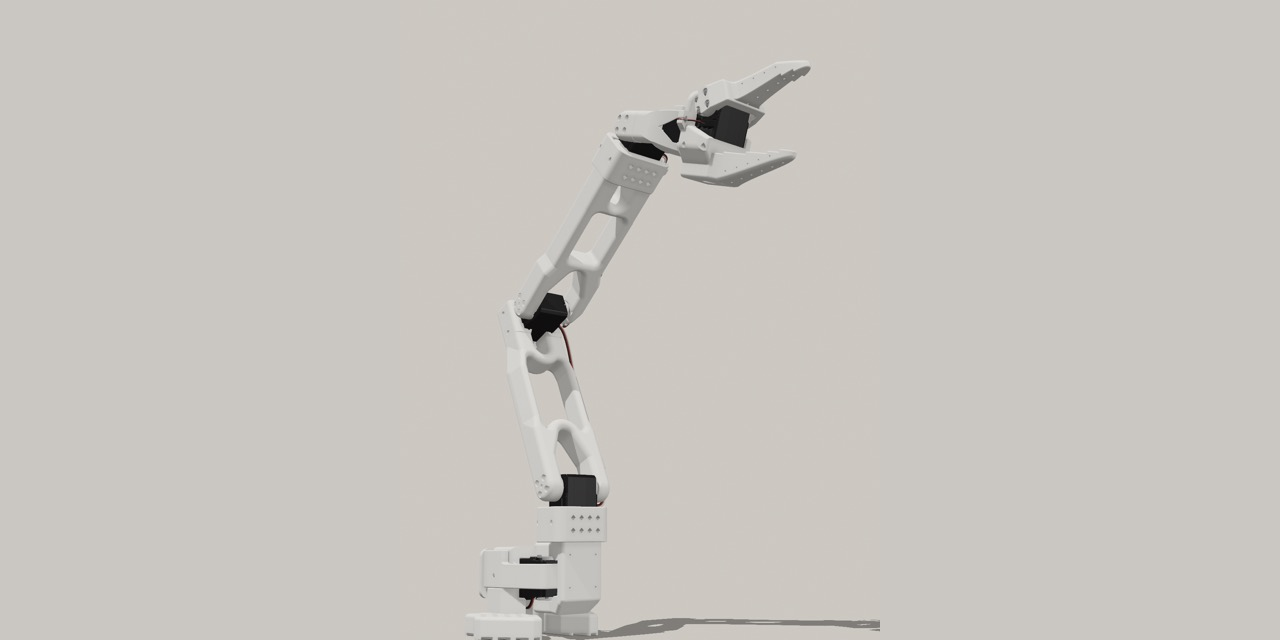
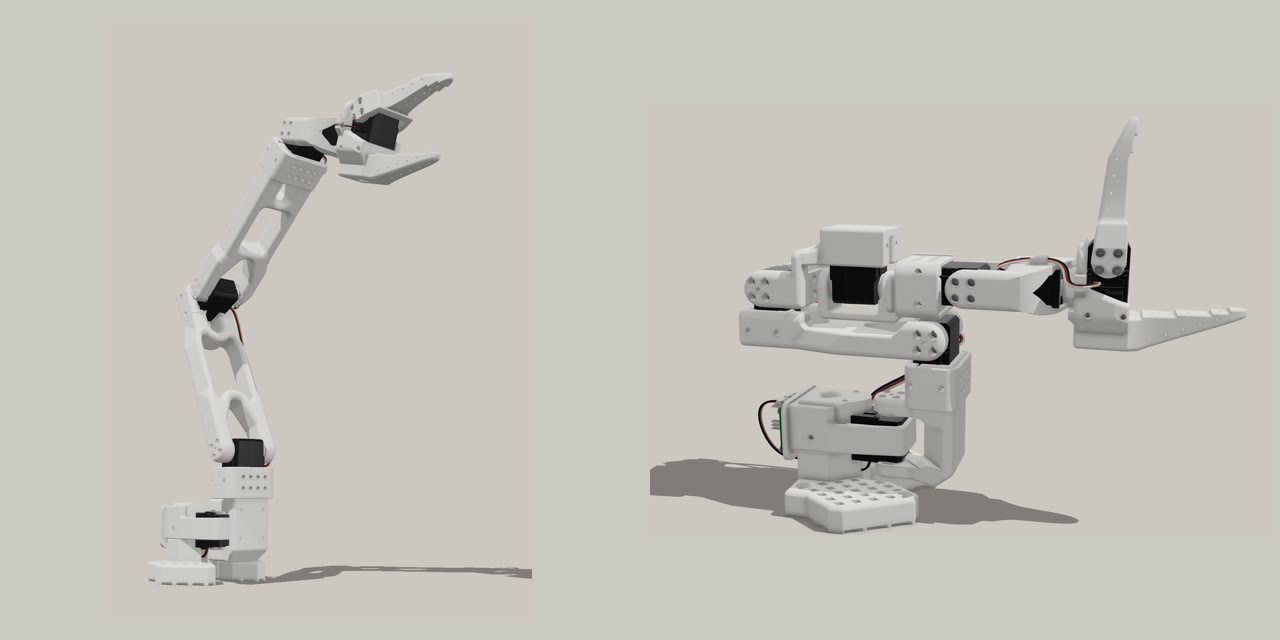
Show both SO-101 variants and clarify motor requirements

diff --git a/README.md b/README.md
@@ -133,11 +133,11 @@ For wrist cameras, haptic sensors, and other modules, see [SO-ARM100 Accessories
 
 ### [rabhishek100/SO-101 Extended & 6-DoF Variants](https://github.com/rabhishek100/so101-6dof-and-extended-versions)
 
-Two printable SO-101 variants: longer upper-arm and forearm links add 50 mm each without changing the stock electronics or LeRobot configuration; a separate elbow-roll upgrade adds a sixth joint with one more Feetech servo and matching LeRobot leader/follower plugins.
+Two printable SO-101 variants: the extended version lengthens the upper arm and forearm by **50 mm each** (100 mm more combined link length), without changing the stock electronics or LeRobot configuration; a separate elbow-roll upgrade adds a sixth joint with one more Feetech servo and matching LeRobot leader/follower plugins. The [extended design reuses the original motors](https://github.com/rabhishek100/so101-6dof-and-extended-versions#extended-so-101-no-firmware-changes), so **12 V Feetech servos are not required**; the [standard 7.4 V SO-101 motors](https://github.com/TheRobotStudio/SO-ARM100#sourcing-parts) are the baseline. A longer arm increases torque demand under load, however, and the project does not publish a tested payload limit for the extended version.
 
 <img src="media/so101-extended.jpg" width="500">
 
-_Image: extended-link variant, from the [project render](https://github.com/rabhishek100/so101-6dof-and-extended-versions/blob/main/stl_files/so101_extended/S101_extended_assembled_mod.png) (Apache-2.0 license)._
+_Image: [extended-link variant](https://github.com/rabhishek100/so101-6dof-and-extended-versions/blob/main/stl_files/so101_extended/S101_extended_assembled_mod.png) on the left, [6-DoF elbow-roll variant](https://github.com/rabhishek100/so101-6dof-and-extended-versions/blob/main/stl_files/so101_6dof/SO101_dof6_assembled_mod.png) on the right (project renders, Apache-2.0 license)._
 
 ---
 
